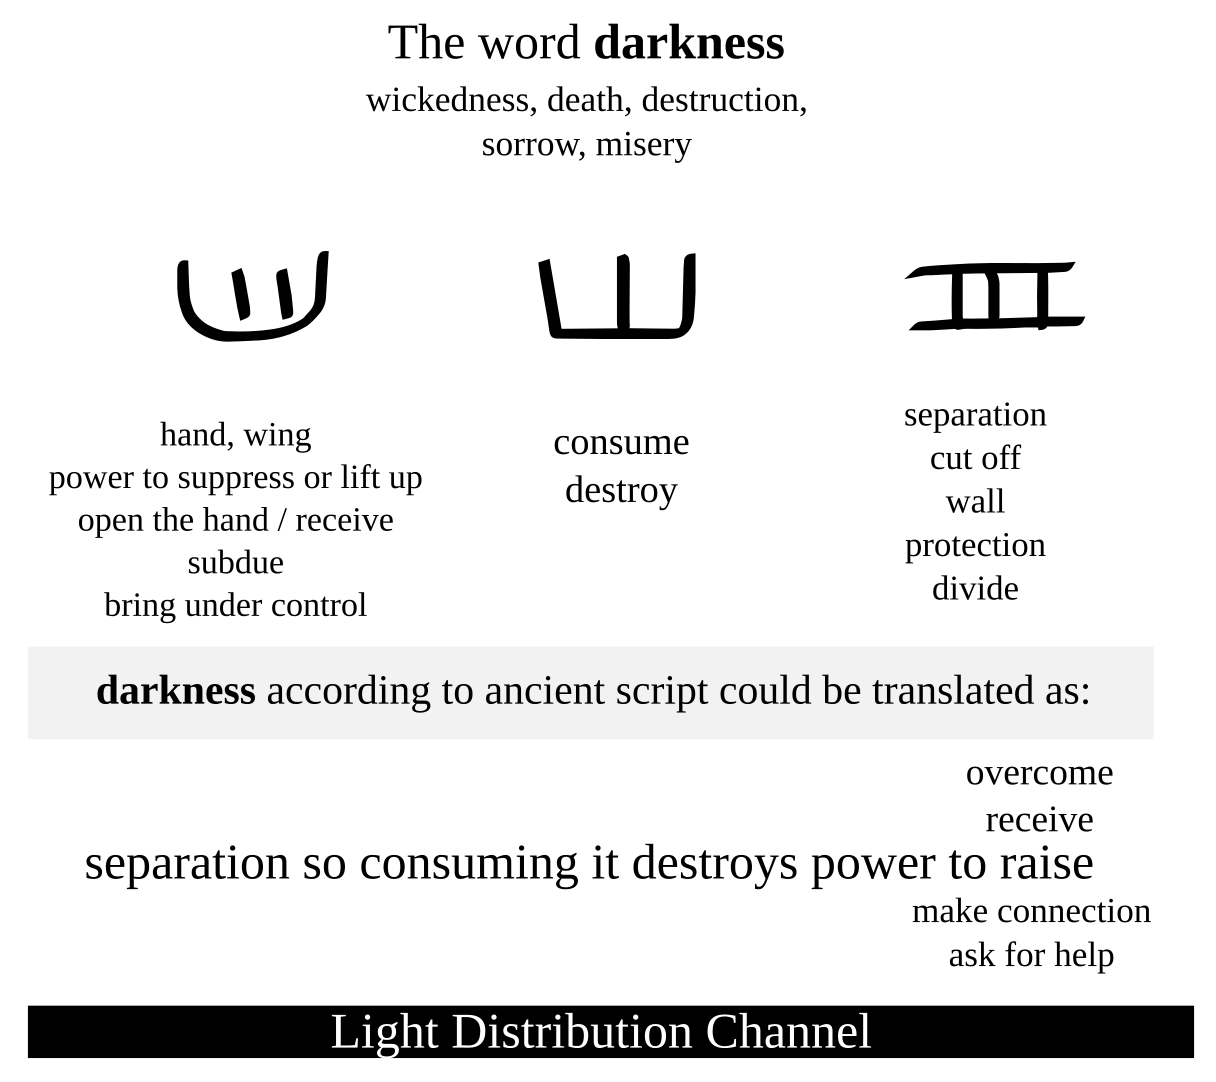
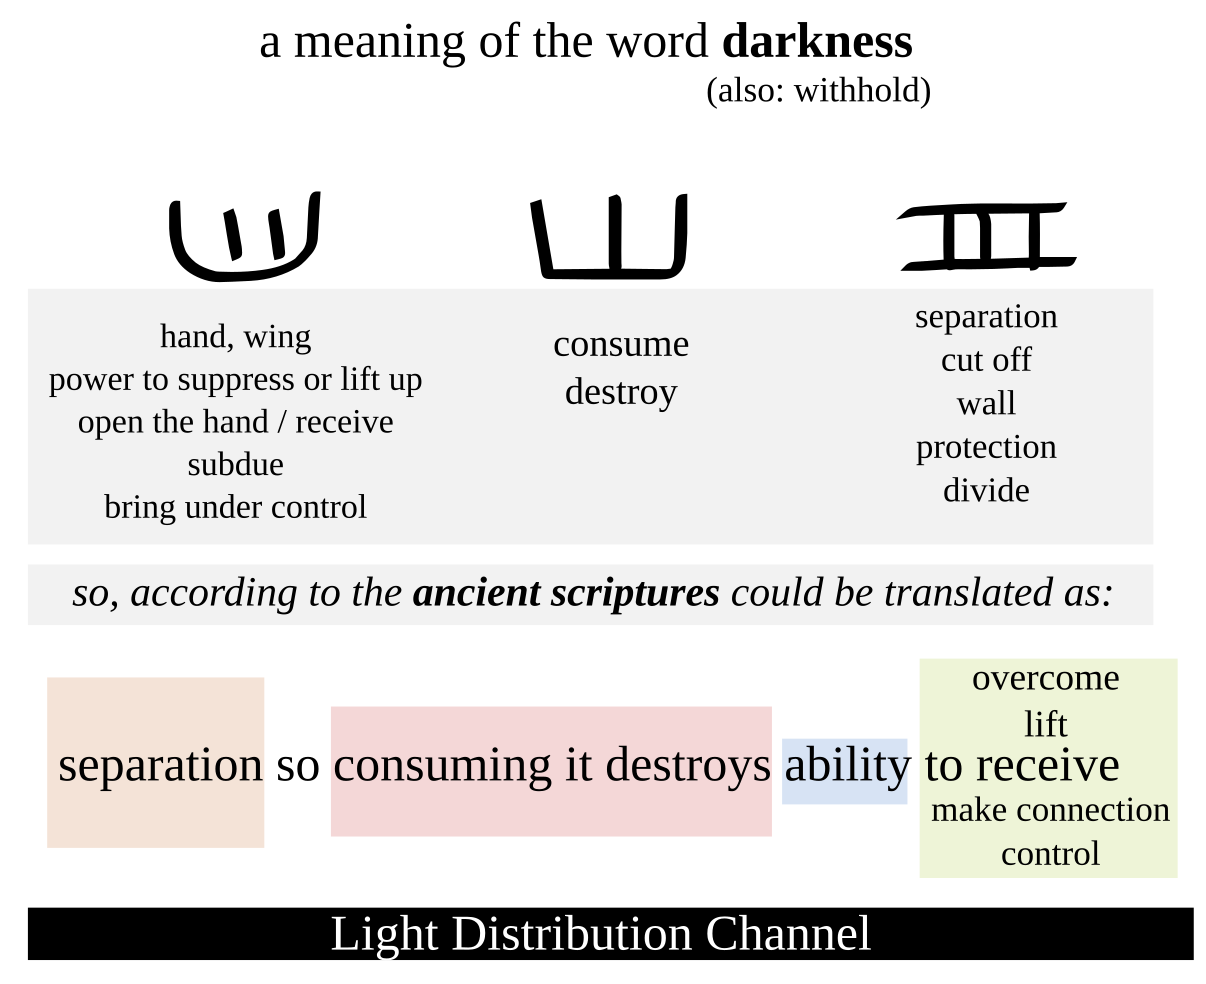
update of image of darkness

diff --git a/index.html b/index.html
@@ -989,9 +989,6 @@
 
     </section>
 
-    <section>
-      <img src="/images/darkness.png" width="100%"/>
-    </section>
 
     <article>
       <H1>Message exchange channels</H1>
@@ -1004,6 +1001,11 @@
       </p>
 
     </article>
+
+      <h1 class=" glow-text-2">Research gallery:</h1>
+          <section>
+            <img src="/images/darkness.png" width="100%" />
+          </section>
 
   </main>
   <script src=" pagetools.js"></script>
